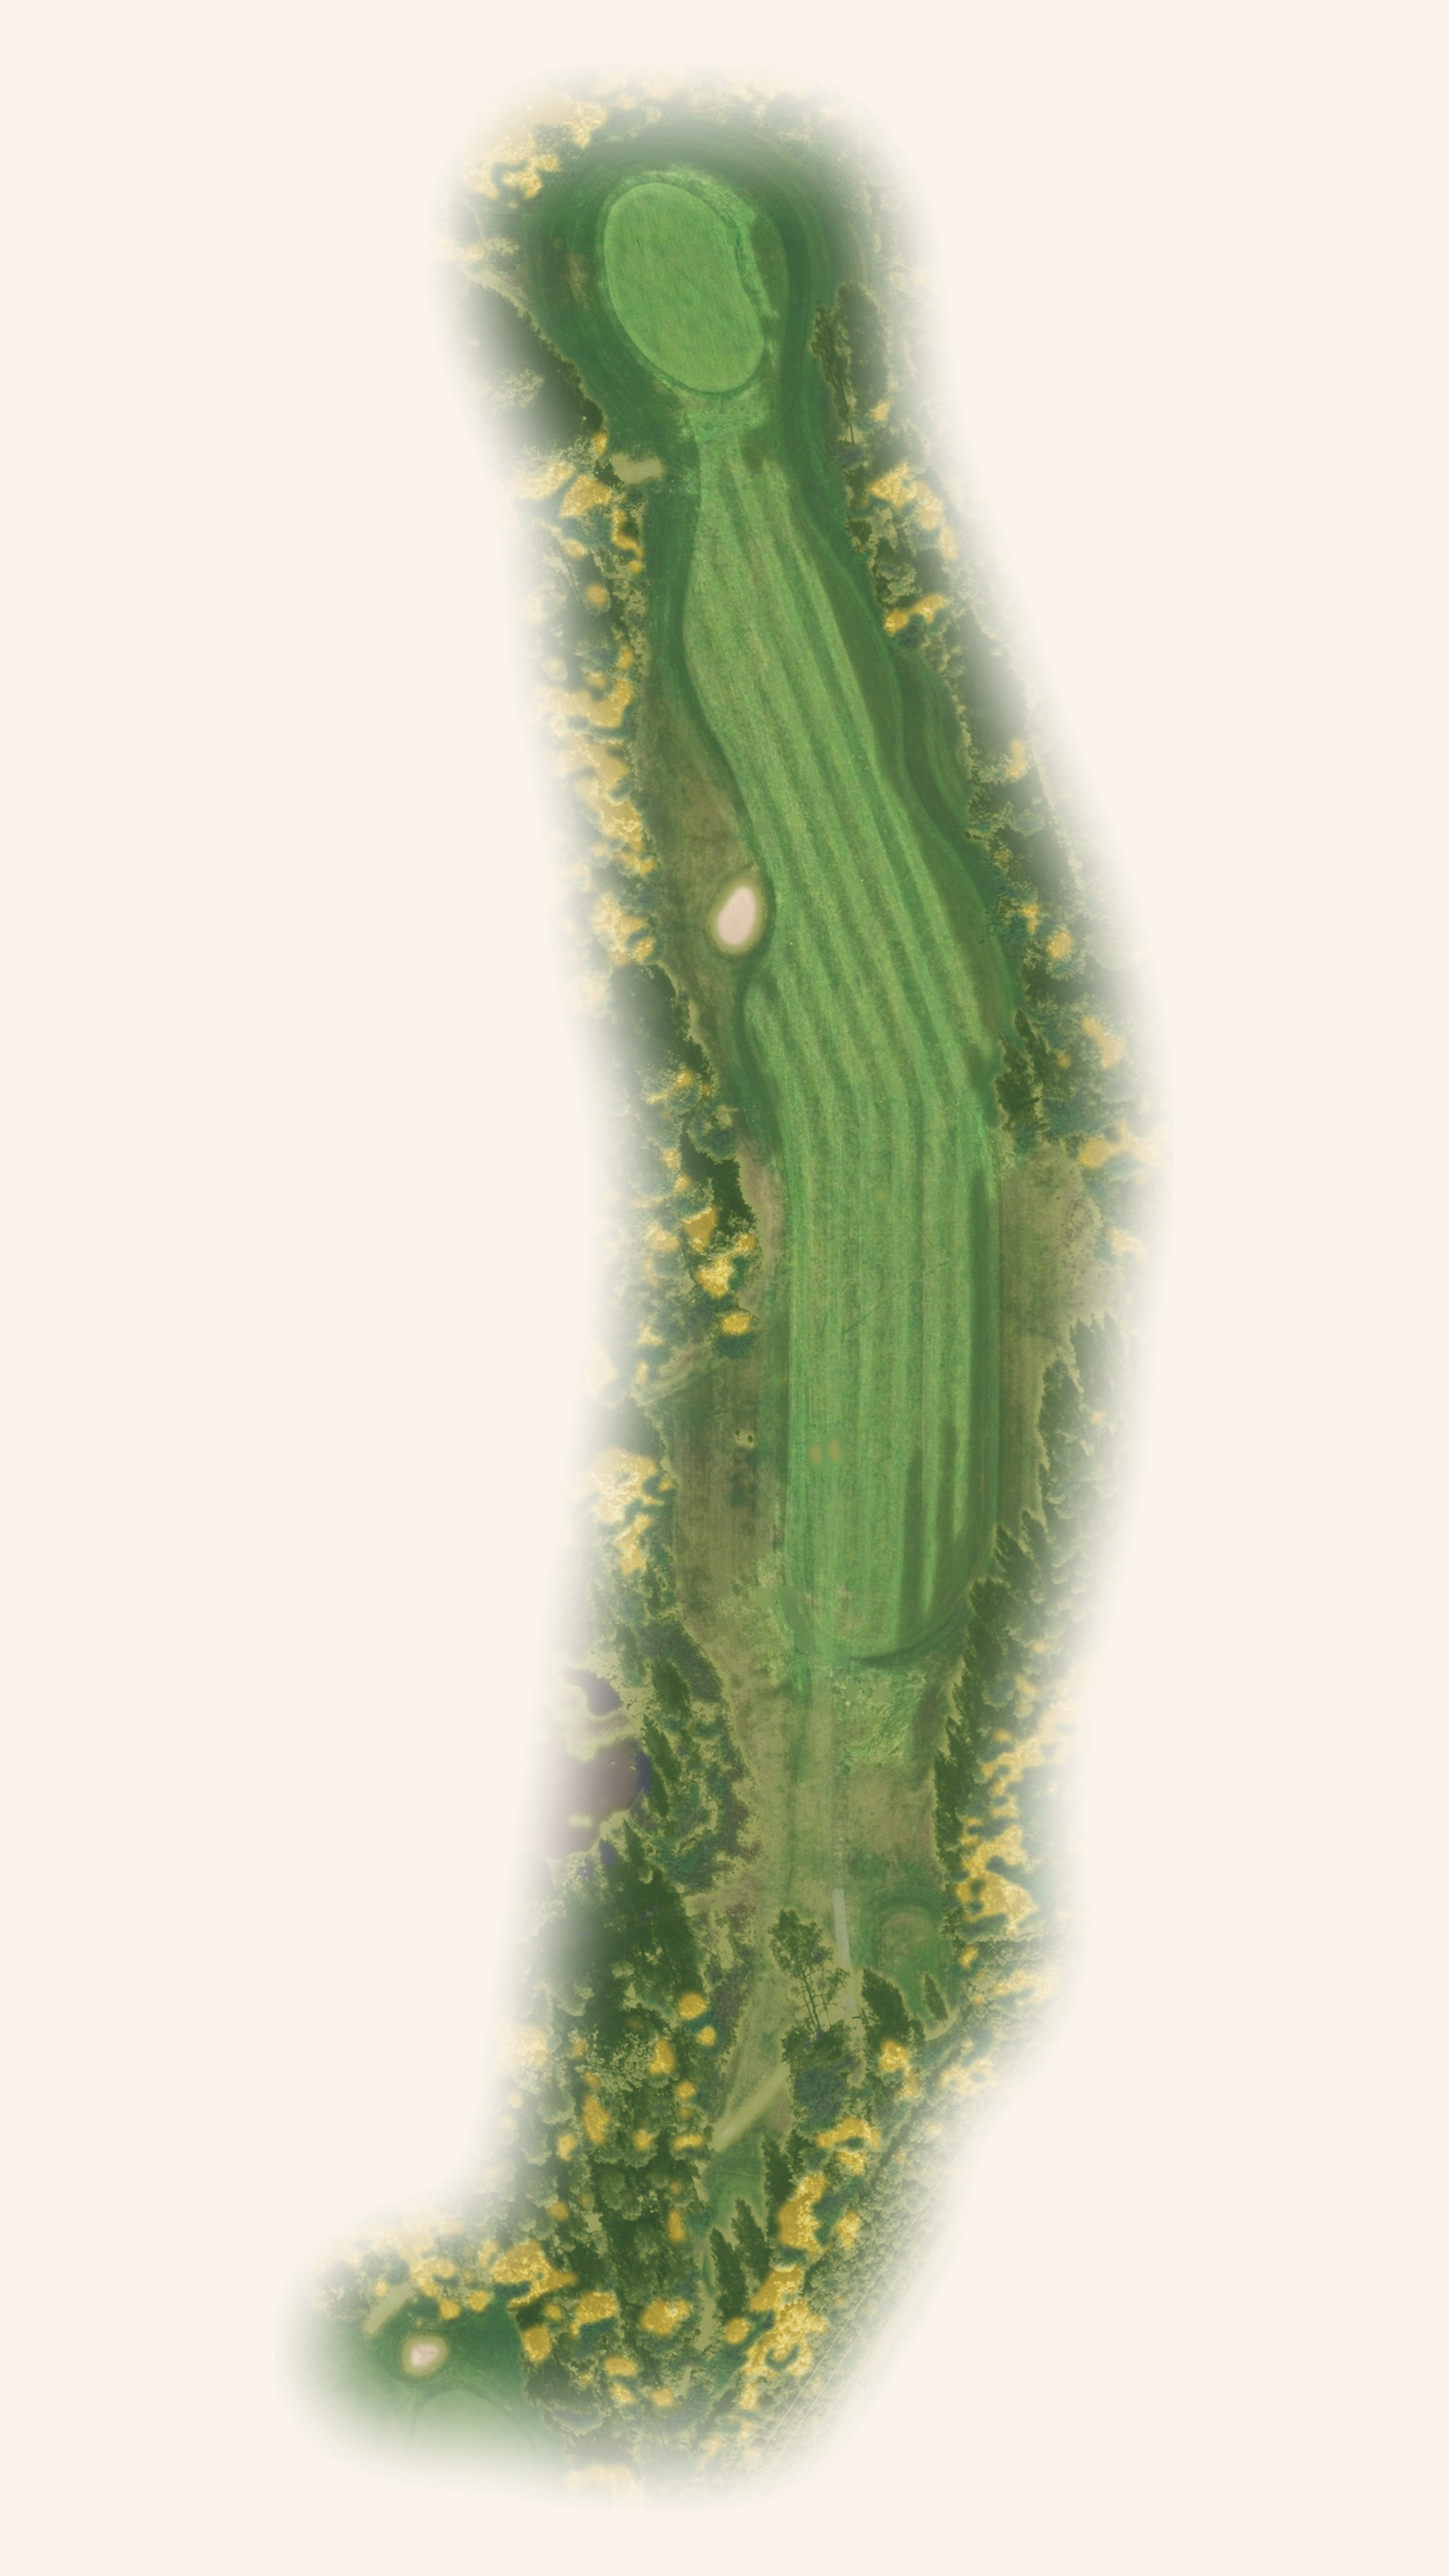
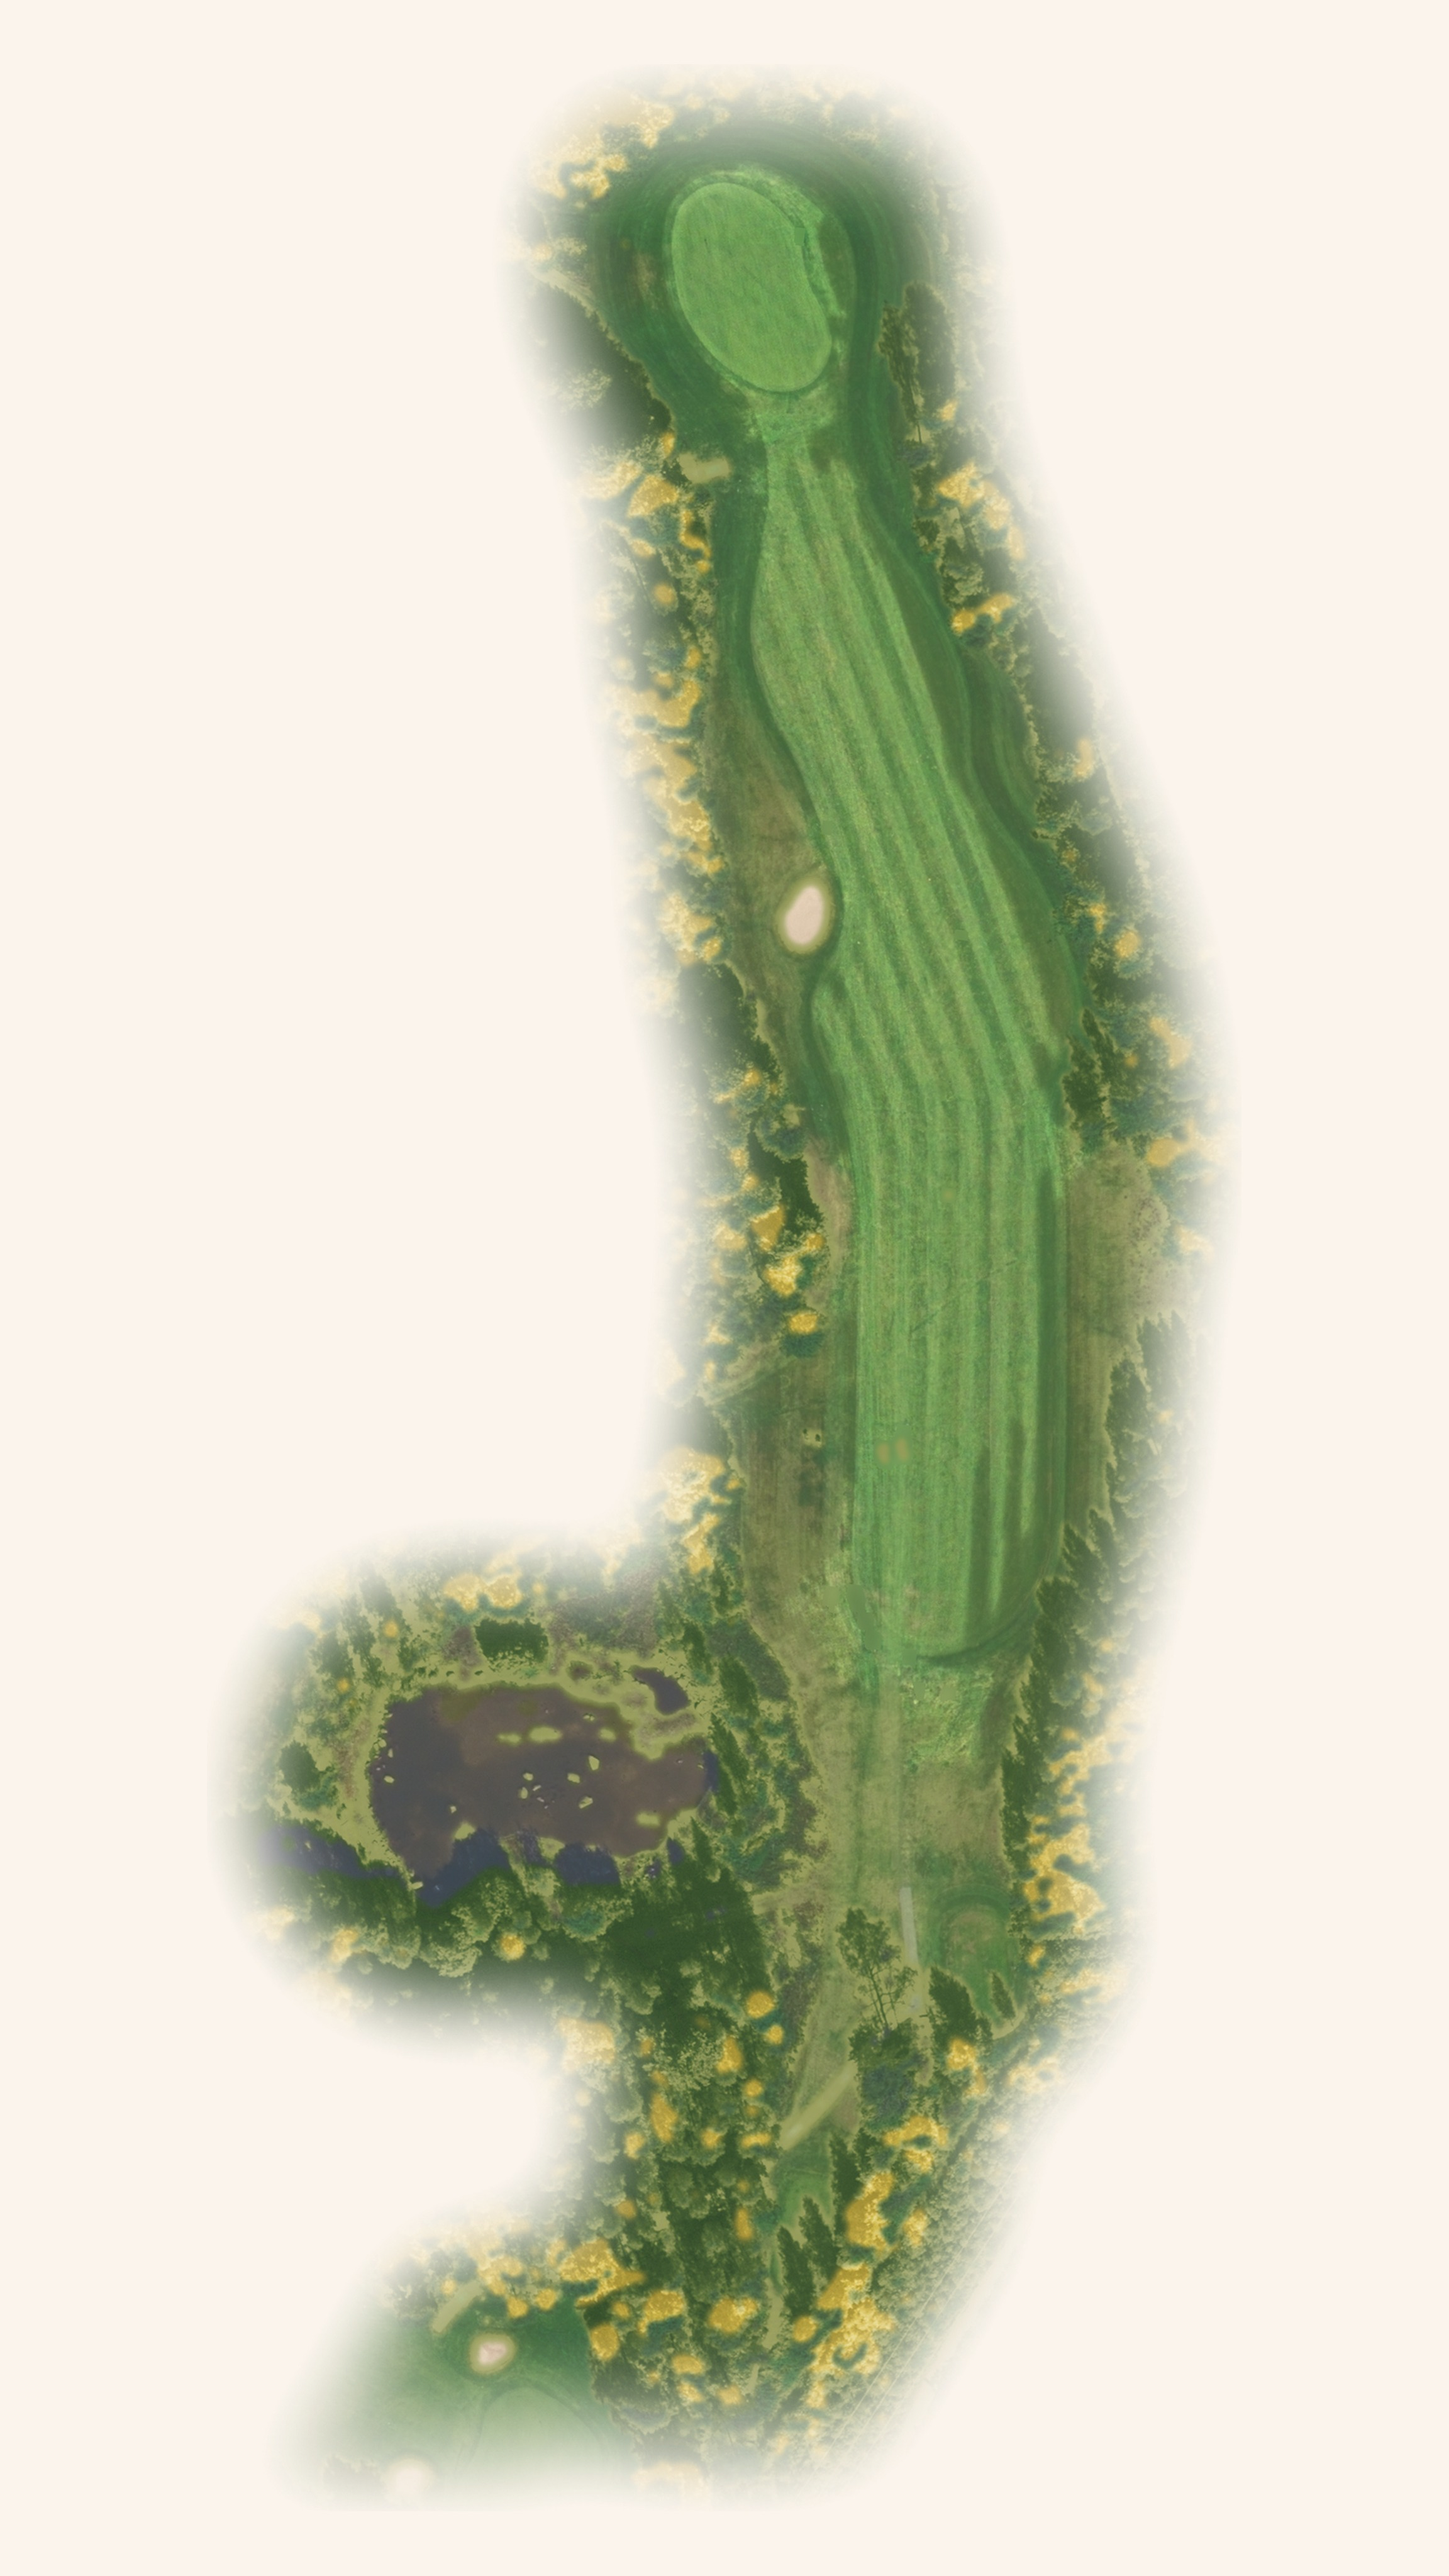
Fotounderlag: dammar i hålfilen syns alltid
Claude-Session: https://claude.ai/code/session_01KqG1GUsb2FjWm4iUZSnPua

Changed region(s): [[0.1562, 0.0312, 0.8438, 0.9688]]

diff --git a/golfholes/render/foto.py b/golfholes/render/foto.py
@@ -193,6 +193,10 @@ def fotounderlag(hole: Hole, orto: Path, hojd_px: int = 2400):
     bunker = _rastrera([h.polygon for h in hole.hazards if h.kind == "bunker"], f, shape)
     spel = fairway | green | bunker
     spel |= _rastrera([hole.centerline], f, shape, bredd=int(12 / res))
+    # dammar och bäckar som hålfilen tar med syns alltid (hål 5: dammen 45 m från linjen)
+    vatten = _rastrera([h.polygon for h in hole.hazards if h.kind == "water"], f, shape)
+    if vatten.sum() * res ** 2 >= 100:
+        spel |= vatten
     for t in hole.tees:
         spel |= _rastrera([[t.point, t.point]], f, shape, bredd=int(14 / res))
 
